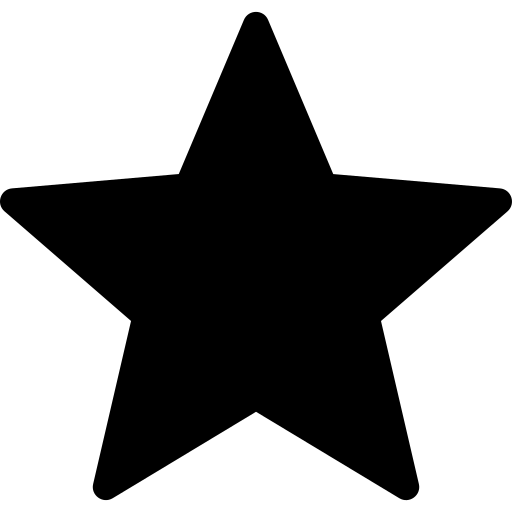
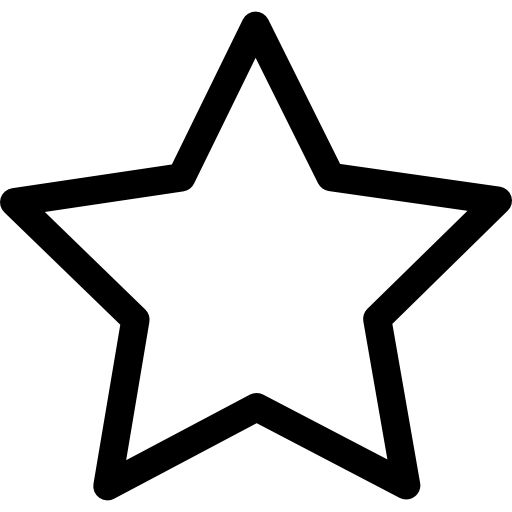
Adicionando imagem de favoritar

diff --git a/public/js/personagens.js b/public/js/personagens.js
@@ -22,8 +22,12 @@ function exibirPersonagem() {
                         console.log("Dados recebidos: ", JSON.stringify(resposta));
 
                         for (let i = 0; i < resposta.length; i++) {
-                            let icone = '<img src="../img/icones/semSenhaImg.png" class="tipoQuiz" alt="Icone de quizzes públicos">'
+                            let icone = '<img src="../img/icones/estrelaImg.png" class="tipoQuiz" alt="Icone de estrela vazia">'
                             
+                            if (resposta[i].id == sessionStorage.FK_FAVORITO) {
+                                icone = '<img src="../img/icones/estrelaPreenchidaImg.png" class="tipoQuiz" style="filter: invert(0%);" alt="Icone de estrela preenchida">';
+                            }
+
                             if (resposta[i].categoria == 'Equipe') {
                                 temEquipe = true;
                                 fraseEquipe += `<article class="card">
@@ -33,7 +37,6 @@ function exibirPersonagem() {
                                     ${icone}
                                 </article>`;
                             } else {
-                                icone = '<img src="../img/icones/senhaImg.png" class="tipoQuiz" alt="Icone de quizzes privados">';
                                 temVilao = true;
                                 fraseVilao += `<article class="card">
                                     <img src="../img/${resposta[i].caminhoImagem}" alt="Imagem do personagem ${resposta[i].nome}">

diff --git a/src/models/usuarioModel.js b/src/models/usuarioModel.js
@@ -3,18 +3,15 @@ var database = require("../database/config")
 function autenticar(email, senha) {
     console.log("ACESSEI O USUARIO MODEL \n \n\t\t >> Se aqui der erro de 'Error: connect ECONNREFUSED',\n \t\t >> verifique suas credenciais de acesso ao banco\n \t\t >> e se o servidor de seu BD está rodando corretamente. \n\n function entrar(): ", email, senha)
     var instrucaoSql = `
-        SELECT id, nome, email, caminhoImagem, senha FROM usuario WHERE email = '${email}' AND senha = '${senha}';
+        SELECT id, nome, email, caminhoImagem, senha, fkpersonagemfavorito FROM usuario WHERE email = '${email}' AND senha = '${senha}';
     `;
     console.log("Executando a instrução SQL: \n" + instrucaoSql);
     return database.executar(instrucaoSql);
 }
 
-// Coloque os mesmos parâmetros aqui. Vá para a var instrucaoSql
 function cadastrar(nome, email, senha) {
     console.log("ACESSEI O USUARIO MODEL \n \n\t\t >> Se aqui der erro de 'Error: connect ECONNREFUSED',\n \t\t >> verifique suas credenciais de acesso ao banco\n \t\t >> e se o servidor de seu BD está rodando corretamente. \n\n function cadastrar():", nome, email, senha);
     
-    // Insira exatamente a query do banco aqui, lembrando da nomenclatura exata nos valores
-    //  e na ordem de inserção dos dados.
     var instrucaoSql = `
         INSERT INTO usuario (nome, email, senha, caminhoImagem) VALUES ('${nome}', '${email}', '${senha}', 'icones/usuarioPadraoImg.png');
     `;

diff --git a/public/css/main.css b/public/css/main.css
@@ -226,8 +226,8 @@ main .card h2 {
 }
 
 .pagina-quiz .card > img:first-child {
-    width: 18rem;
-    height: 12rem;
+    width: 100%;
+    height: 14rem;
     object-fit: cover;
     border-radius: 1rem 1rem 0 0;
     object-position: 50% 0;
@@ -235,6 +235,15 @@ main .card h2 {
 
 .pagina-quiz .card p:first-of-type {
     padding: 0 1rem;
+}
+
+.personagens .card p:first-of-type {
+    padding: 0 1rem 2rem 1rem;
+}
+
+.personagens .card:hover {
+    cursor: auto;
+    transform: scale(100%);
 }
 
 .pagina-quiz .cards {
@@ -326,6 +335,12 @@ main .card h2 {
     width: 2rem;
     height: 2rem;
     filter: invert(100%);
+}
+
+.personagens .tipoQuiz {
+    right: 1.5rem;
+    top: 1.5rem;
+    cursor: pointer;
 }
 
 #modal-carregar img {

diff --git a/src/controllers/usuarioController.js b/src/controllers/usuarioController.js
@@ -24,7 +24,8 @@ function autenticar(req, res) {
                             email: resultadoAutenticar[0].email,
                             nome: resultadoAutenticar[0].nome,
                             caminhoImagem: resultadoAutenticar[0].caminhoImagem,
-                            senha: resultadoAutenticar[0].senha
+                            senha: resultadoAutenticar[0].senha,
+                            fkFavorito: resultadoAutenticar[0].fkpersonagemfavorito
                         });
                     } else if (resultadoAutenticar.length == 0) {
                         res.status(403).send("Email e/ou senha inválido(s)");

diff --git a/public/js/formLogin.js b/public/js/formLogin.js
@@ -43,6 +43,7 @@ function verificar() {
                     sessionStorage.ID_USUARIO = json.id;
                     sessionStorage.CAMINHO_IMAGEM = json.caminhoImagem;
                     sessionStorage.SENHA = json.senha;
+                    sessionStorage.FK_FAVORITO = json.fkFavorito;
 
                     setTimeout(function () {
                         window.location = "./pages/painel.html";

diff --git a/public/pages/personagens.html b/public/pages/personagens.html
@@ -62,7 +62,7 @@
         </section>
     </header>
 
-    <main class="pagina-quiz">
+    <main class="pagina-quiz personagens">
         <section id="quizzes" class="container">
             <h1 class="titulo"> Personagens </h1>
 
